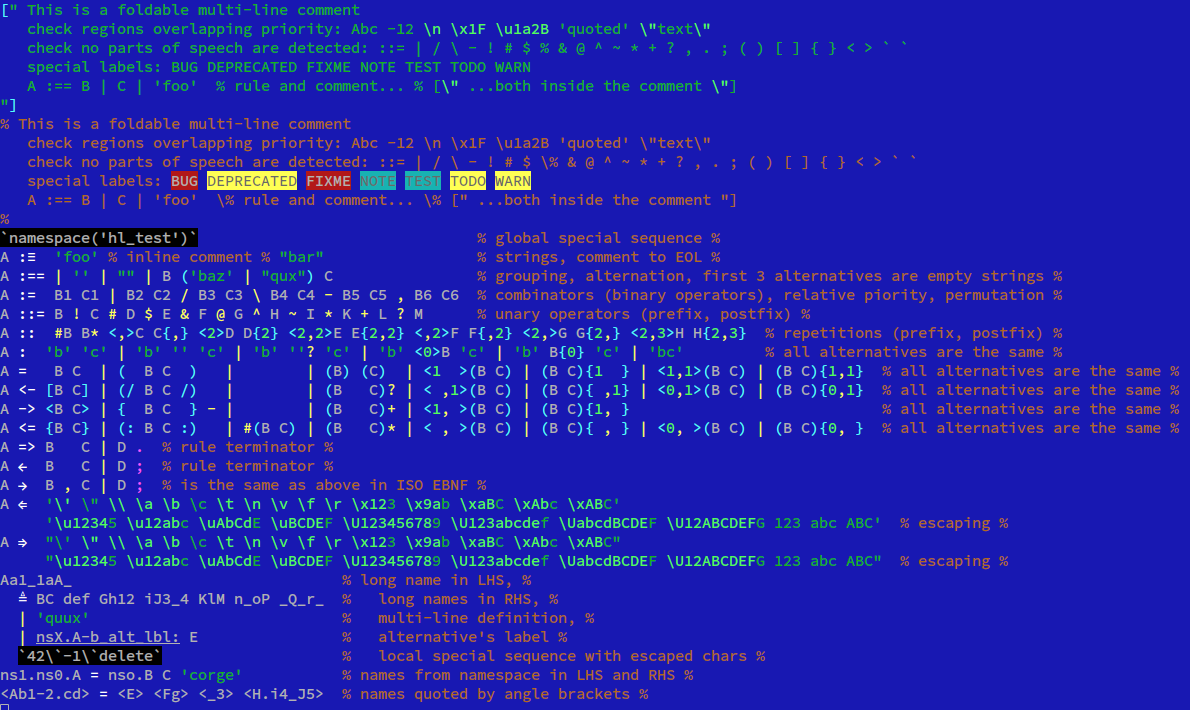
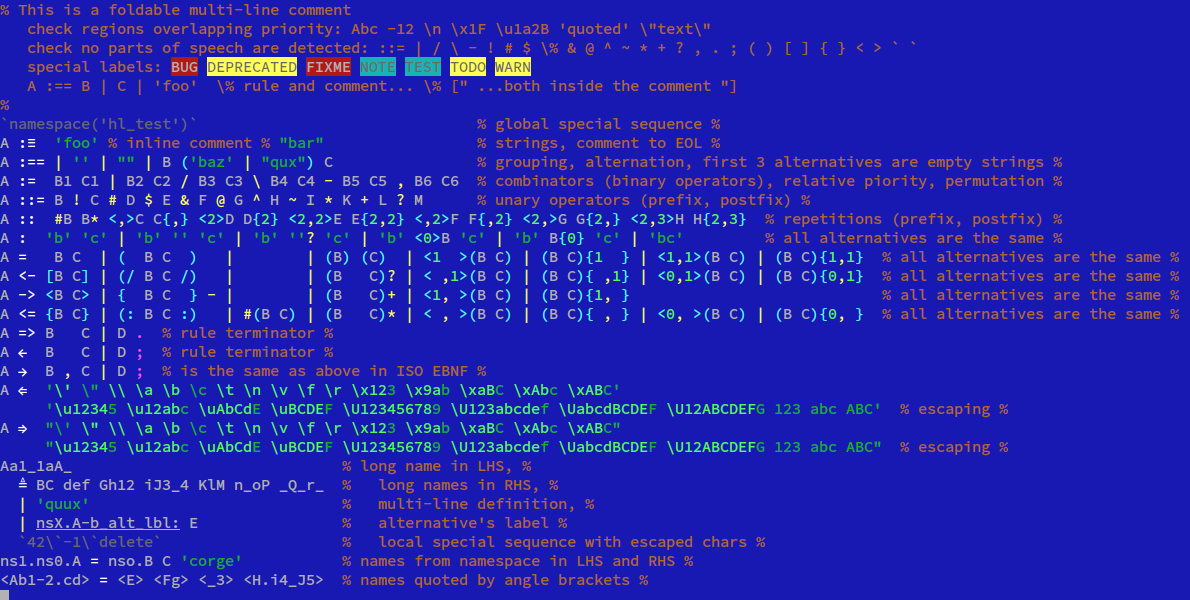
fix BNF/EBNF/ABNF/WBNF syntax
BNF/EBNF/ABNF/WBNF syntax for:
- Kate, version 4
- mc, version 3.0.1
changes:
- fix special block background color
- bump version
- update a demo

tests:
- test.bnf : drop comment block ["..."]

Changes to be committed:
	modified:   Changelog
	modified:   Kate/bnf.xml
	modified:   Kate/test.bnf.html
	modified:   Kate/test.bnf.png
	modified:   mc/bnf.syntax
	modified:   mc/test.bnf.png
	modified:   test.bnf

diff --git a/Kate/test.bnf.html b/Kate/test.bnf.html
@@ -4,19 +4,13 @@
 <title>test.bnf</title>
 <meta name="generator" content="KF5::SyntaxHighlighting - Definition (BNF/EBNF/ABNF/WBNF) - Theme (Breeze Light)"/>
 </head><body style="background-color:#ffffff;color:#1f1c1b"><pre>
-<span style="color:#0057ae;background-color:#e0e9f8">[</span><span style="color:#bf0303">" This is a foldable multi-line comment</span>
-<span style="color:#bf0303">   check regions overlapping priority: Abc -12 </span><span style="color:#3daee9">\n</span><span style="color:#bf0303"> </span><span style="color:#3daee9">\x1F</span><span style="color:#bf0303"> </span><span style="color:#3daee9">\u1a2B</span><span style="color:#bf0303"> 'quoted' </span><span style="color:#3daee9">\"</span><span style="color:#bf0303">text</span><span style="color:#3daee9">\"</span>
-<span style="color:#bf0303">   check no parts of speech are detected: ::= | / \ - ! # $ % &amp; @ ^ ~ * + ? , . ; ( ) [ ] { } &lt; > ` `</span>
-<span style="color:#bf0303">   special labels: BUG DEPRECATED FIXME NOTE TEST TODO WARN</span>
-<span style="color:#bf0303">   A :== B | C | 'foo'  % rule and comment... % [</span><span style="color:#3daee9">\"</span><span style="color:#bf0303"> ...both inside the comment </span><span style="color:#3daee9">\"</span><span style="color:#bf0303">]</span>
-<span style="color:#bf0303">"</span><span style="color:#0057ae;background-color:#e0e9f8">]</span>
 <span style="color:#898887">% This is a foldable multi-line comment</span>
 <span style="color:#898887">   check regions overlapping priority: Abc -12 \n \x1F \u1a2B 'quoted' \"text\"</span>
 <span style="color:#898887">   check no parts of speech are detected: ::= | / \ - ! # $ \% &amp; @ ^ ~ * + ? , . ; ( ) [ ] { } &lt; > ` `</span>
 <span style="color:#898887">   special labels: </span><span style="color:#ca9219;background-color:#451e1a;font-weight:bold">BUG</span><span style="color:#898887"> </span><span style="color:#ca9219;background-color:#451e1a;font-weight:bold">DEPRECATED</span><span style="color:#898887"> </span><span style="color:#ca9219;background-color:#451e1a;font-weight:bold">FIXME</span><span style="color:#898887"> </span><span style="color:#81ca2d;background-color:#f7e6e6;font-weight:bold">NOTE</span><span style="color:#898887"> </span><span style="color:#81ca2d;background-color:#f7e6e6;font-weight:bold">TEST</span><span style="color:#898887"> </span><span style="color:#ca9219;background-color:#451e1a;font-weight:bold">TODO</span><span style="color:#898887"> WARN</span>
 <span style="color:#898887">   A :== B | C | 'foo'  \% rule and comment... \% [" ...both inside the comment "]</span>
 <span style="color:#898887">%</span>
-<span style="color:#b2b2b2;background-color:#404040;font-weight:bold">`namespace('hl_test')`</span>                               <span style="color:#898887">% global special sequence %</span>
+<span style="color:#444444;background-color:#dddddd;font-weight:bold">`namespace('hl_test')`</span>                               <span style="color:#898887">% global special sequence %</span>
 A <span style="color:#ca60ca;font-weight:bold">:≡</span>  <span style="color:#bf0303">'foo'</span> <span style="color:#898887">% inline comment %</span> <span style="color:#bf0303">"bar"</span>                 <span style="color:#898887">% strings, comment to EOL %</span>
 A <span style="color:#ca60ca;font-weight:bold">:==</span> <span style="color:#b26818;font-weight:bold">|</span> <span style="color:#bf0303">''</span> <span style="color:#b26818;font-weight:bold">|</span> <span style="color:#bf0303">""</span> <span style="color:#b26818;font-weight:bold">|</span> B <span style="color:#0057ae;background-color:#e0e9f8">(</span><span style="color:#bf0303">'baz'</span> <span style="color:#b26818;font-weight:bold">|</span> <span style="color:#bf0303">"qux"</span><span style="color:#0057ae;background-color:#e0e9f8">)</span> C                <span style="color:#898887">% grouping, alternation, first 3 alternatives are empty strings %</span>
 A <span style="color:#ca60ca;font-weight:bold">:=</span>  B1 C1 <span style="color:#b26818;font-weight:bold">|</span> B2 C2 <span style="color:#b26818;font-weight:bold">/</span> B3 C3 <span style="color:#b26818;font-weight:bold">\</span> B4 C4 <span style="color:#b26818;font-weight:bold">-</span> B5 C5 <span style="color:#b26818;font-weight:bold">,</span> B6 C6  <span style="color:#898887">% combinators (binary operators), relative piority, permutation %</span>
@@ -38,7 +32,7 @@ Aa1_1aA_                              <span style="color:#898887">% long name in
   <span style="color:#ca60ca;font-weight:bold">≜</span> BC def Gh12 iJ3_4 KlM n_oP _Q_r_  <span style="color:#898887">%   long names in RHS, %</span>
   <span style="color:#b26818;font-weight:bold">|</span> <span style="color:#bf0303">'quux'</span>                            <span style="color:#898887">%   multi-line definition, %</span>
   <span style="color:#b26818;font-weight:bold">|</span> <span style="text-decoration:underline">nsX.A-b_alt_lbl:</span> E                <span style="color:#898887">%   alternative's label %</span>
-  <span style="color:#b2b2b2;background-color:#404040;font-weight:bold">`42</span><span style="color:#3daee9;background-color:#404040">\`</span><span style="color:#b2b2b2;background-color:#404040;font-weight:bold">-1</span><span style="color:#3daee9;background-color:#404040">\`</span><span style="color:#b2b2b2;background-color:#404040;font-weight:bold">delete`</span>                    <span style="color:#898887">%   local special sequence with escaped chars %</span>
+  <span style="color:#444444;background-color:#dddddd;font-weight:bold">`42</span><span style="color:#3daee9;background-color:#dddddd">\`</span><span style="color:#444444;background-color:#dddddd;font-weight:bold">-1</span><span style="color:#3daee9;background-color:#dddddd">\`</span><span style="color:#444444;background-color:#dddddd;font-weight:bold">delete`</span>                    <span style="color:#898887">%   local special sequence with escaped chars %</span>
 ns1<span style="color:#ca60ca;font-weight:bold">.</span>ns0<span style="color:#ca60ca;font-weight:bold">.</span>A <span style="color:#ca60ca;font-weight:bold">=</span> nso<span style="color:#ca60ca;font-weight:bold">.</span>B C <span style="color:#bf0303">'corge'</span>           <span style="color:#898887">% names from namespace in LHS and RHS %</span>
 &lt;Ab1-2.cd> <span style="color:#ca60ca;font-weight:bold">=</span> &lt;E> &lt;Fg> &lt;_3> &lt;H.i4_J5>  <span style="color:#898887">% names quoted by angle brackets %</span>
 </pre></body></html>
